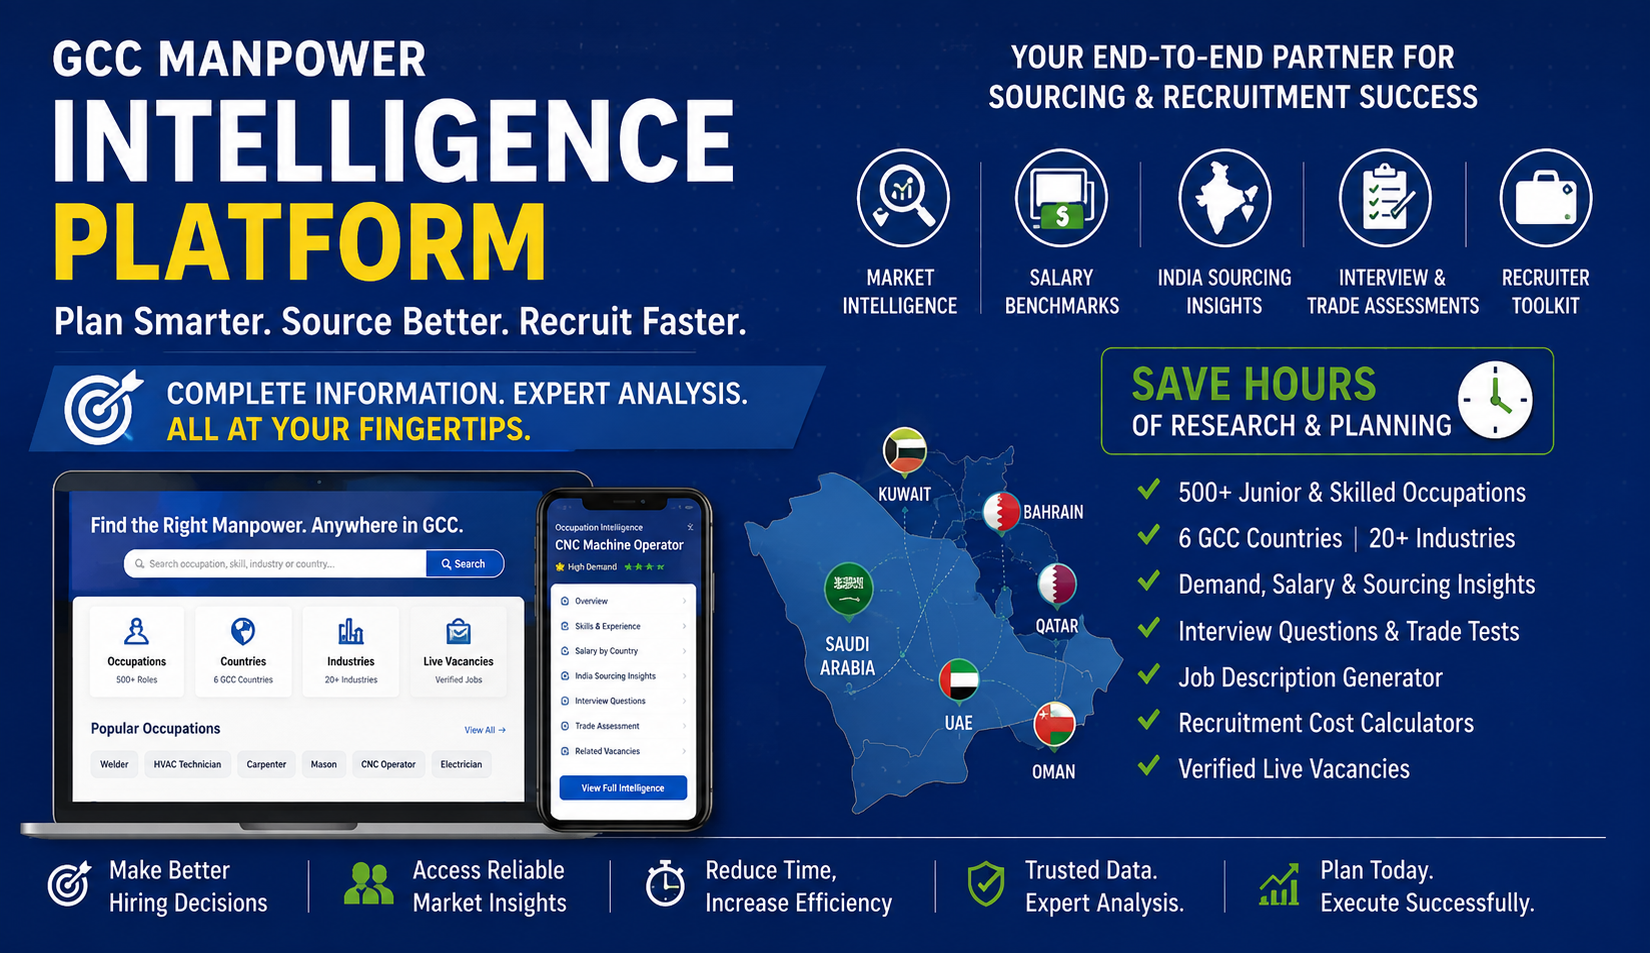
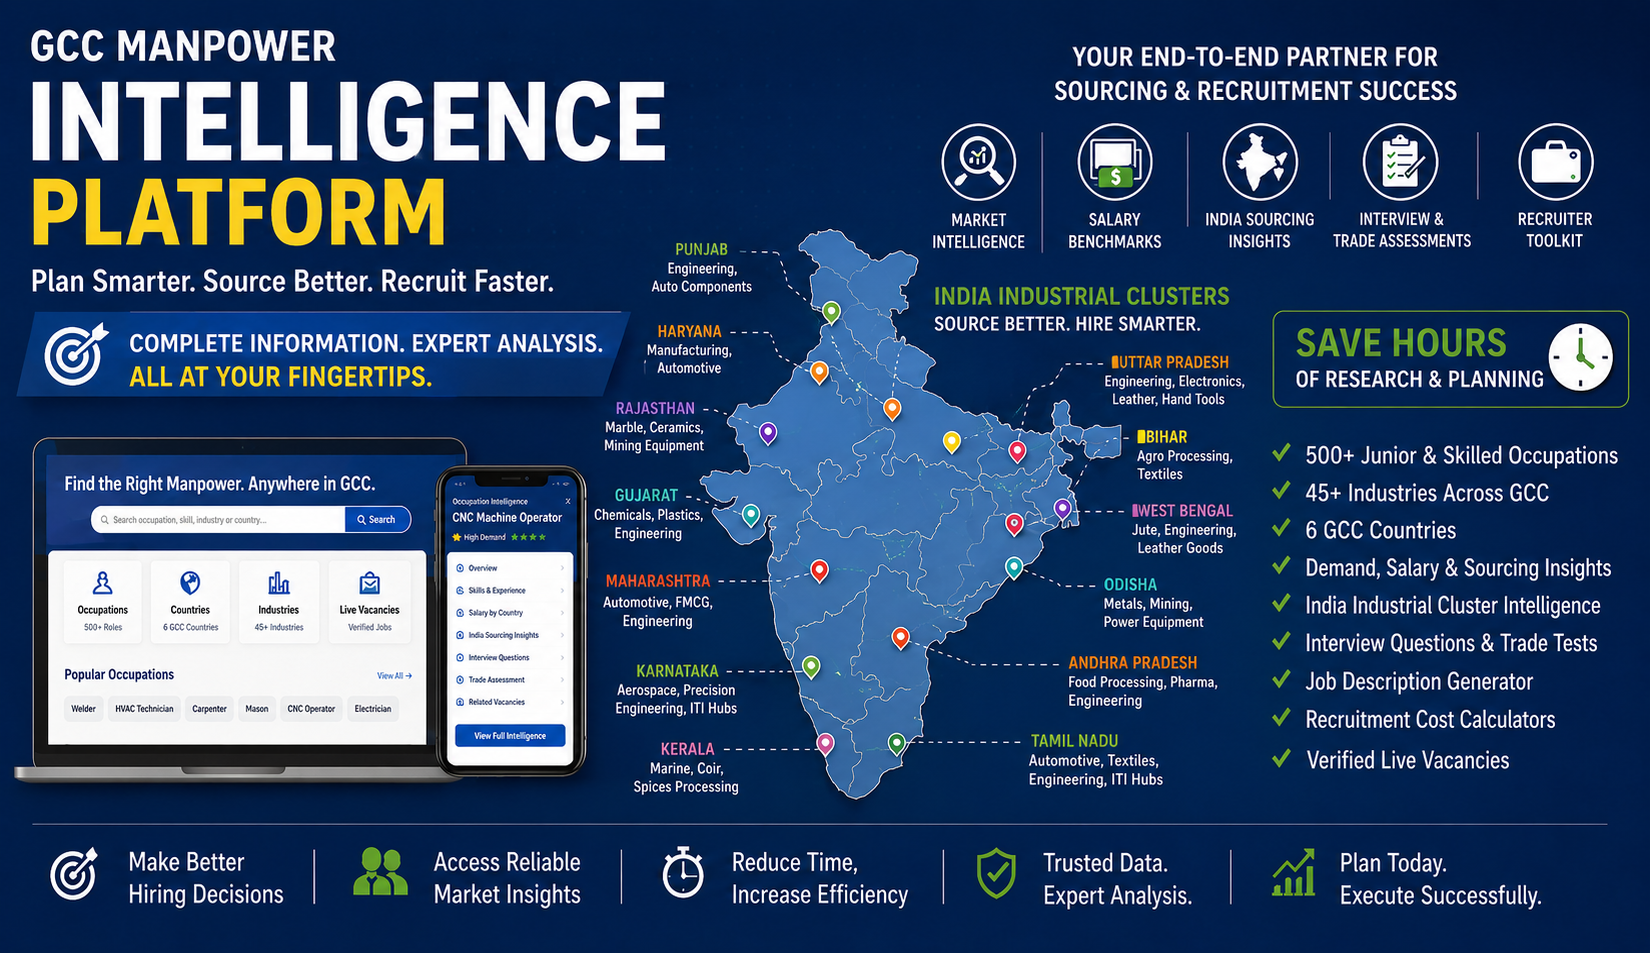
Widen the hero rotator by 25% and swap in the updated ad graphic
- Hero mini-carousel max-width 360px -> 450px, with proportionally
  larger padding/type so the wider box doesn't look sparse. Verified
  no text clipping on desktop, tablet, or mobile (bumped the mobile
  carousel height to fit the larger type at narrow widths).
- Replaced public/gcc-manpower-ad.png with the updated GCC Manpower
  Intelligence Platform graphic (India industrial-cluster map instead
  of the GCC-country map), same 1650x953 canvas so layout is unaffected.

diff --git a/src/app/globals.css b/src/app/globals.css
@@ -199,15 +199,15 @@ nav.primary a:hover, nav.primary a.active { color: var(--ink); }
 .hero-agency-link { display: inline-flex; align-items: center; gap: 6px; margin-top: 18px; font-size: 13.5px; font-weight: 700; color: #dbe3f7; }
 .hero-agency-link:hover { color: #fff; }
 
-.hero-mini-carousel { margin-top: 18px; max-width: 360px; }
+.hero-mini-carousel { margin-top: 18px; max-width: 450px; }
 .hero-mini-carousel .promo-carousel {
   height: 108px; margin-bottom: 0; border: 1px solid rgba(255,255,255,0.35);
 }
-.hero-mini-carousel .promo-slide { padding: 0 18px; }
-.hero-mini-carousel .promo-slide .eyebrow { font-size: 10.5px; }
-.hero-mini-carousel .promo-slide h3 { font-size: 15px; margin: 4px 0 2px; }
-.hero-mini-carousel .promo-slide p { font-size: 11.5px; line-height: 1.35; }
-.hero-mini-carousel .promo-dots { bottom: 8px; left: 18px; }
+.hero-mini-carousel .promo-slide { padding: 0 22px; }
+.hero-mini-carousel .promo-slide .eyebrow { font-size: 11px; }
+.hero-mini-carousel .promo-slide h3 { font-size: 17px; margin: 5px 0 3px; }
+.hero-mini-carousel .promo-slide p { font-size: 12.5px; line-height: 1.4; max-width: none; }
+.hero-mini-carousel .promo-dots { bottom: 9px; left: 22px; }
 
 .hero-rich-promo { flex: 1.3 1 380px; max-width: 500px; }
 .promo-banner-img {
@@ -371,4 +371,6 @@ footer.site { border-top: 1px solid var(--border); padding: 40px 0 28px; margin-
   .hero-search-row { flex-direction: column; }
   .hero-search-row select, .hero-search-row input, .hero-search-row button { width: 100%; }
   .hero-mini-carousel { max-width: none; }
+  .hero-mini-carousel .promo-carousel { height: 140px; }
+  .hero-mini-carousel .promo-slide { padding: 0 16px; }
 }
